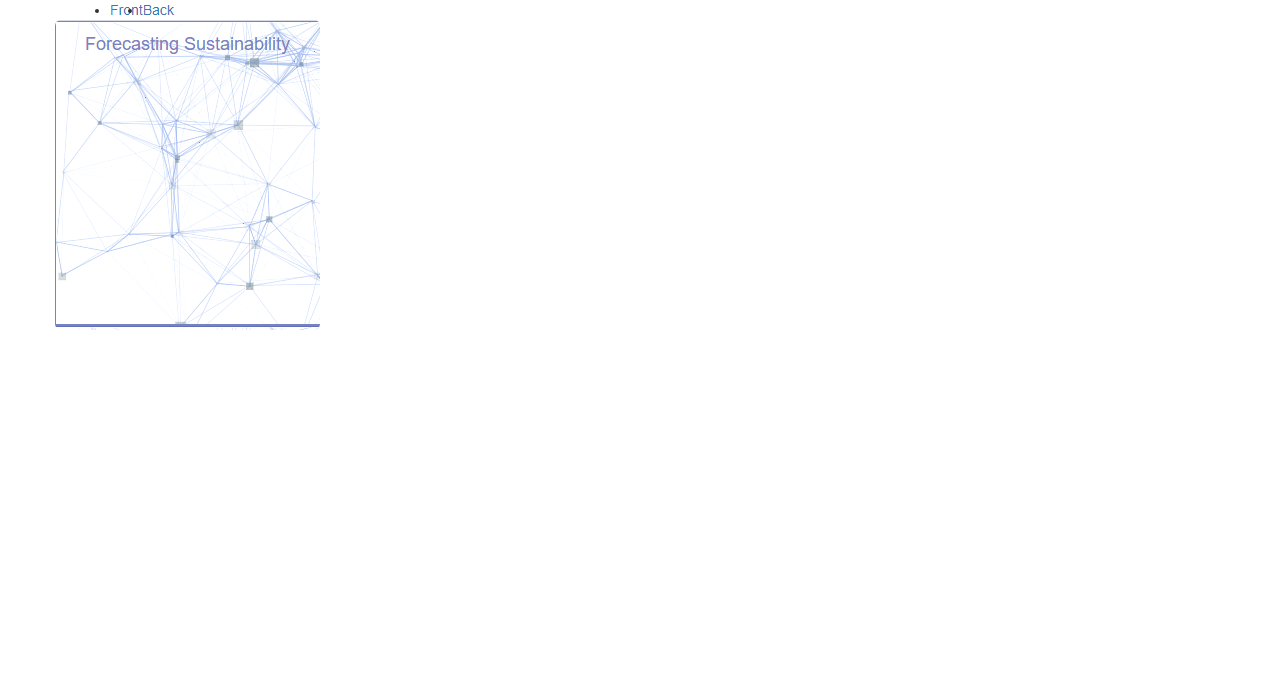
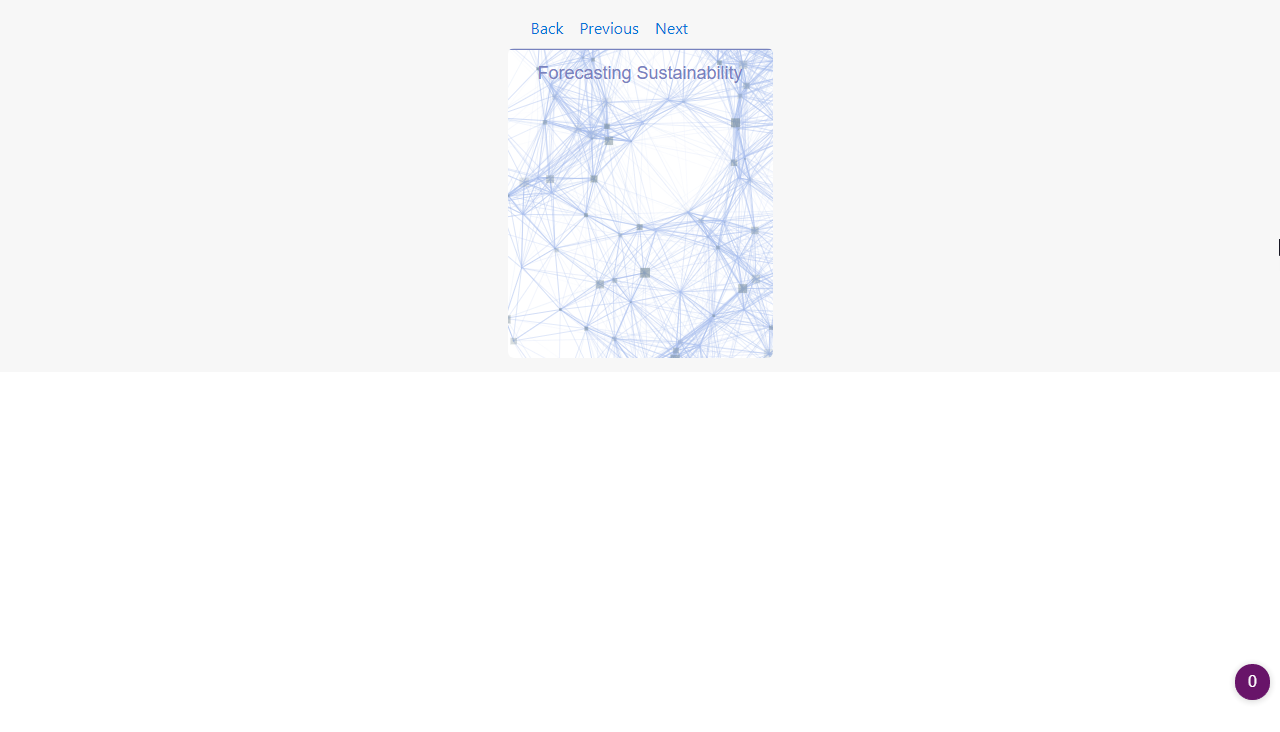
resized newly unpdated business cards

diff --git a/back.html b/back.html
@@ -20,15 +20,18 @@
 <body>
 
     <nav class="navbar navbar-toggleable-md navbar-static-top bg-faded">
-        <div class="container">
+        <div class="container-fluid">
 
             <div class="collapse navbar-collapse" id="navbarNav">
                 <ul class="navbar-nav">
                     <li class="nav-item">
-                        <a class="nav-link" href="index.html"> Front </a>
+                        <a class="nav-link" href="x-business-card_back.html"> Back </a>
                     </li>
                     <li class="nav-item">
-                        <a class="nav-link" href="back.html"> Back </a>
+                        <a class="nav-link" href="index.html"> Previous </a>
+                    </li>
+                    <li class="nav-item">
+                        <a class="nav-link" href="#"> Next </a>
                     </li>
                 </ul>
             </div>

diff --git a/x-business-card_back.html b/x-business-card_back.html
@@ -82,7 +82,7 @@
     ================================== */
     :host(.enpura) .me {
         color: #eef1fd;
-        background-image: url("img/heraspace-business-card_bg_white.png");
+        background-image: url("img/heraspace-business-card_bg.png");
     }
     
     :host(.enpura) .me-profile {

diff --git a/x-business-card_desire_front.html b/x-business-card_desire_front.html
@@ -84,7 +84,7 @@
     ================================== */
     :host(.enpura) .me {
         color: #7782bf;
-        background-image: url("img/heraspace-business-card_bg_white.png");
+        background-image: url("img/heraspace-business-card_bg.png");
     }
     
     :host(.enpura) .me-profile {

diff --git a/README.md b/README.md
@@ -3,14 +3,14 @@ A simple page with web components
 adapted from https://github.com/html5bizj/x-business-card
 # heraspace_business_card
 
-[HeraSpace business card_Isaac Durá .png](img/heraspace_business_card_isaac.png)
-![Alt text](img/heraspace_business_card_isaac.png?raw=true "HeraSpace business card_Isaac Durá")
+[HeraSpace business card_Isaac Durá .png](img/heraspace_business_card_isaac_resized.png)
+![Alt text](img/heraspace_business_card_isaac_resized.png?raw=true "HeraSpace business card_resized_Isaac Durá")
 
-[HeraSpace business card_Désiré Nzengou .png](img/heraspace_business_card_desire.png)
-![Alt text](img/heraspace_business_card_desire.png?raw=true "HeraSpace business card_Désiré Nzengou")
+[HeraSpace business card_Désiré Nzengou .png](img/heraspace_business_card_desire_resized.png)
+![Alt text](img/heraspace_business_card_desire_resized.png?raw=true "HeraSpace business card_resized_Désiré Nzengou")
 
-[HeraSpace business card_back .png](img/heraspace_business_card_back.png)
-![Alt text](img/heraspace_business_card_back.png?raw=true "HeraSpace business card_back")
+[HeraSpace business card_back .png](img/heraspace_business_card_back_resized.png)
+![Alt text](img/heraspace_business_card_back_resized.png?raw=true "HeraSpace business card_resized_back")
 
 <hr>
 
